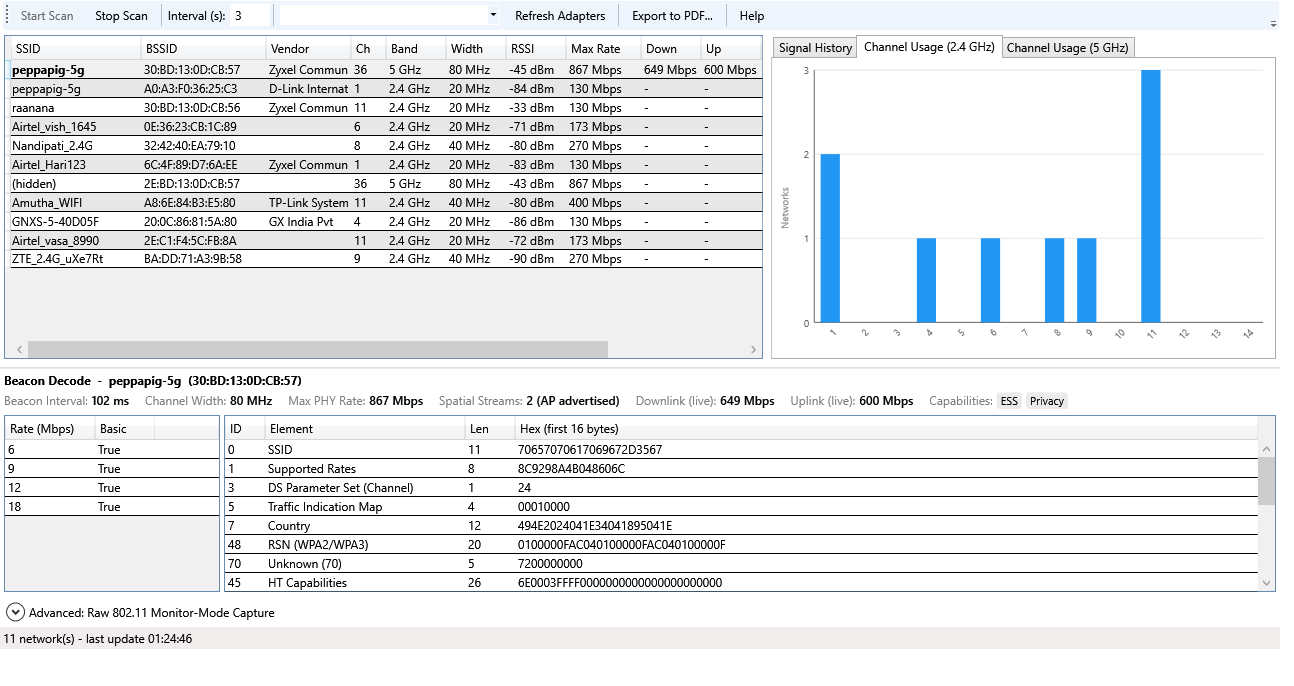
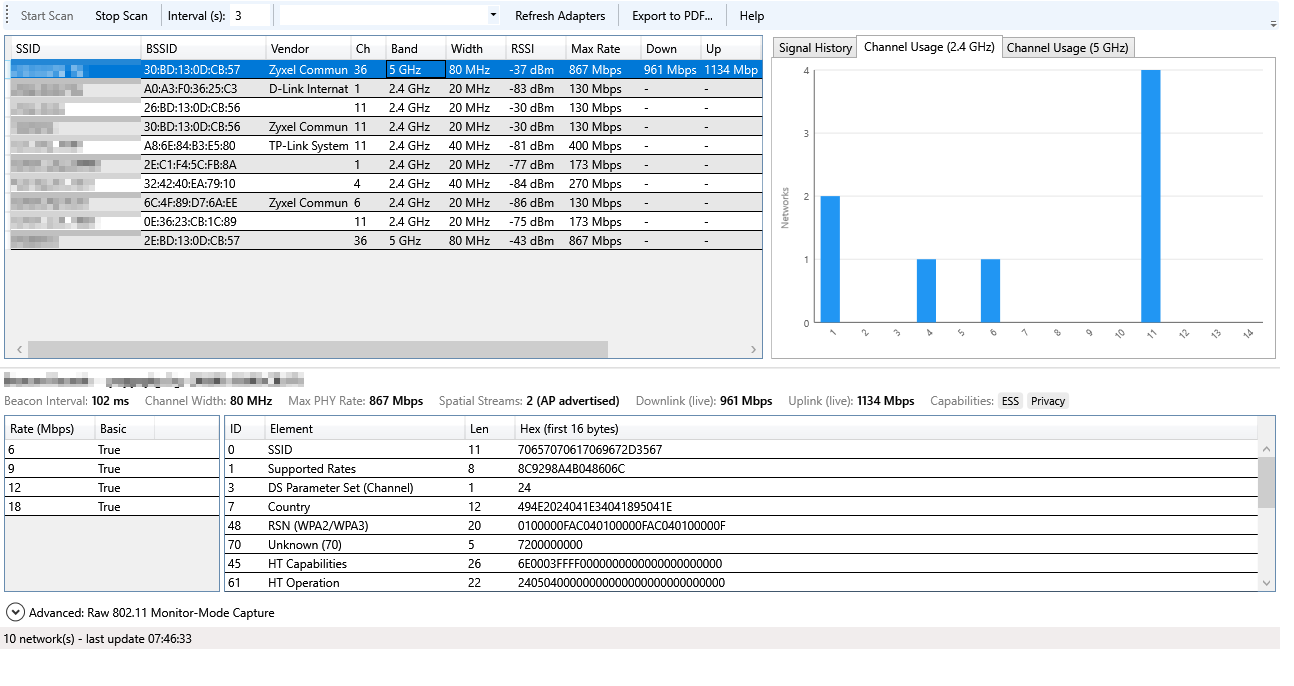
Add checklist section, checksums, and blurred SSIDs in screenshots

diff --git a/index.html b/index.html
@@ -100,6 +100,14 @@
   .dl-card .meta { color: var(--text-dim); font-size: 13px; }
   .dl-card ul { margin: 0; padding-left: 18px; color: var(--text-dim); font-size: 14px; line-height: 1.7; }
   .dl-card .btn { justify-content: center; margin-top: auto; }
+  .checksum {
+    font-size: 11px;
+    color: var(--text-dim);
+    word-break: break-all;
+    line-height: 1.5;
+    border-top: 1px solid var(--border);
+    padding-top: 10px;
+  }
 
   table.checklist { width: 100%; border-collapse: collapse; margin-top: 8px; }
   table.checklist th, table.checklist td {
@@ -204,6 +212,19 @@
   </div>
 </section>
 
+<section id="checklist">
+  <div class="wrap">
+    <h2>Field Engineer Checklist</h2>
+    <p class="section-lead">A built-in, printable checklist so a site visit covers every factor that affects Wi-Fi performance &mdash; not just signal strength. Fill it in on screen, tick items as you verify them, then print a signed record for the ticket.</p>
+    <div class="shot-grid">
+      <div class="shot-card" style="max-width: 480px; margin: 0 auto;">
+        <img src="screenshots/checklist.png" alt="llemonai WiFi Scanner Field Engineer Checklist showing site and visit details, device information, and environmental condition checkboxes" loading="lazy" />
+        <div class="cap">Technician, customer and device details, environmental conditions, RF checks, and throughput verification &mdash; all in one printable page</div>
+      </div>
+    </div>
+  </div>
+</section>
+
 <section class="alt" id="download">
   <div class="wrap">
     <h2>Download</h2>
@@ -218,6 +239,7 @@
           <li>Works on Windows 10 (build 19041+) and Windows 11</li>
         </ul>
         <a class="btn btn-primary" href="#" id="dl-x64">Download for 64-bit Windows</a>
+        <div class="checksum">SHA256:<br /><span class="mono" id="sha-x64"></span></div>
       </div>
       <div class="dl-card">
         <h3>llemonai WiFi Scanner &mdash; 32-bit</h3>
@@ -228,8 +250,14 @@
           <li>Works on Windows 10 (build 19041+) and Windows 11, 32-bit edition</li>
         </ul>
         <a class="btn btn-secondary" href="#" id="dl-x86">Download for 32-bit Windows</a>
+        <div class="checksum">SHA256:<br /><span class="mono" id="sha-x86"></span></div>
       </div>
     </div>
+    <p class="section-lead" style="margin-top:24px; margin-bottom:0; font-size:13px;">
+      Verify your download hasn't been tampered with or corrupted: after downloading, run
+      <span class="mono">certutil -hashfile LlemonScanner-15.B1-win-x64.exe SHA256</span> (PowerShell/Command Prompt)
+      and compare the result to the SHA256 value shown above for the file you downloaded.
+    </p>
   </div>
 </section>
 
@@ -263,6 +291,8 @@
   document.getElementById('year').textContent = new Date().getFullYear();
   document.getElementById('dl-x64').href = 'https://github.com/llemonai/llemon-scanner/releases/download/v15.B1/LlemonScanner-15.B1-win-x64.exe';
   document.getElementById('dl-x86').href = 'https://github.com/llemonai/llemon-scanner/releases/download/v15.B1/LlemonScanner-15.B1-win-x86.exe';
[2 lines of base64/hex data omitted]
 </script>
 
 </body>
